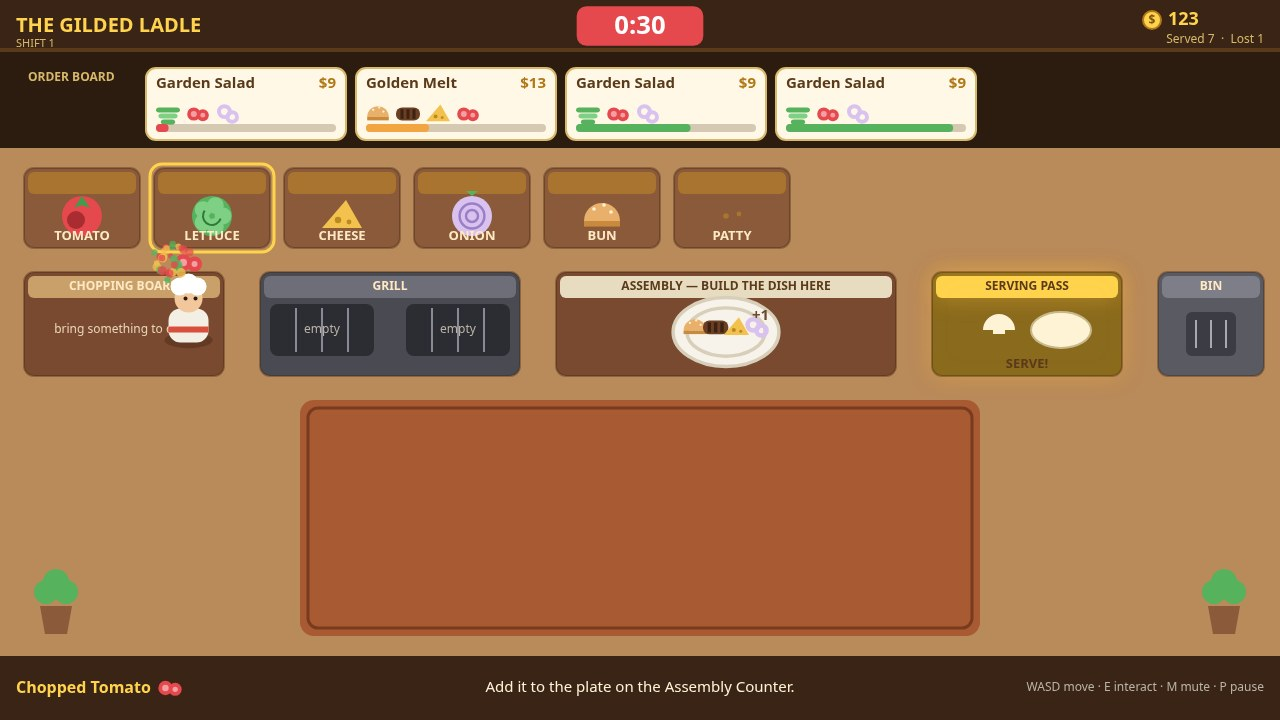
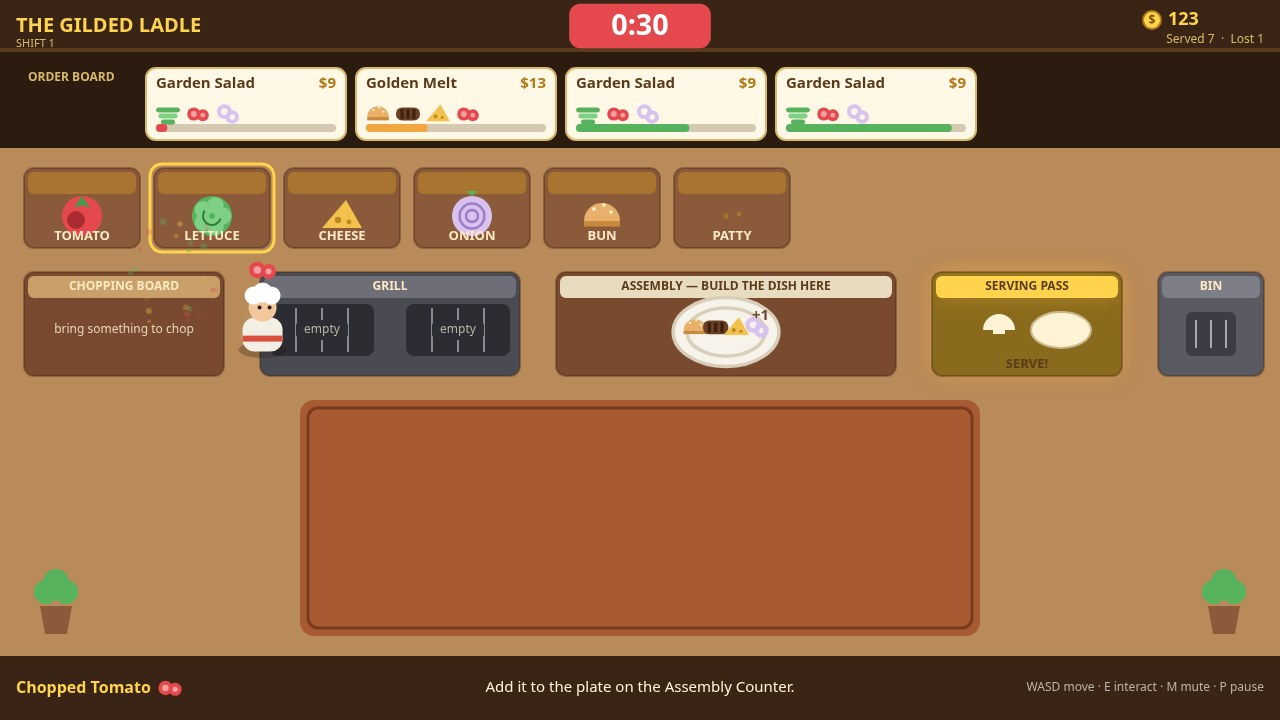
Review fixes: grill empty label pill, rush shot keeps chef off the board header

Changed region(s): [[0.4375, 0.0, 0.5625, 0.0917], [0.125, 0.3361, 0.2188, 0.4889]]

diff --git a/game/src/shots.js b/game/src/shots.js
@@ -45,8 +45,11 @@ export function stageShot(name, world) {
   }
   if (name === 'rush') {
     // The last half-minute: the timer red and pulsing, the board full, a ticket
-    // about to run out of patience.
-    runUntil(world, 178, (s) => s.time >= 150 && s.tickets.some((t) => t.state === 'open' && t.patience / t.patienceMax < 0.5));
+    // about to run out of patience — and the chef clear of the chopping-board
+    // header, so nothing he carries covers a station label.
+    runUntil(world, 178, (s) => s.time >= 150
+      && s.tickets.some((t) => t.state === 'open' && t.patience / t.patienceMax < 0.5)
+      && (s.chef.x > 260 || !s.chef.carry));
     return { screen: 'playing' };
   }
   // Cover: a busy kitchen — several tickets open, a dish mid-assembly on the

diff --git a/game/src/render.js b/game/src/render.js
@@ -233,6 +233,10 @@ function drawGrill(ctx, state) {
         text(ctx, 'DONE ✓', cx, cy + 32, 12, '#b8f0b0', 'bold');
       }
     } else {
+      // A dark pill behind the label so the middle grate line does not read
+      // as a strike through the word.
+      ctx.fillStyle = '#2c2c33';
+      roundRect(ctx, cx - 26, cy - 10, 52, 20, 6); ctx.fill();
       text(ctx, 'empty', cx, cy, 12, '#b9b3a8', 'normal');
     }
   });
